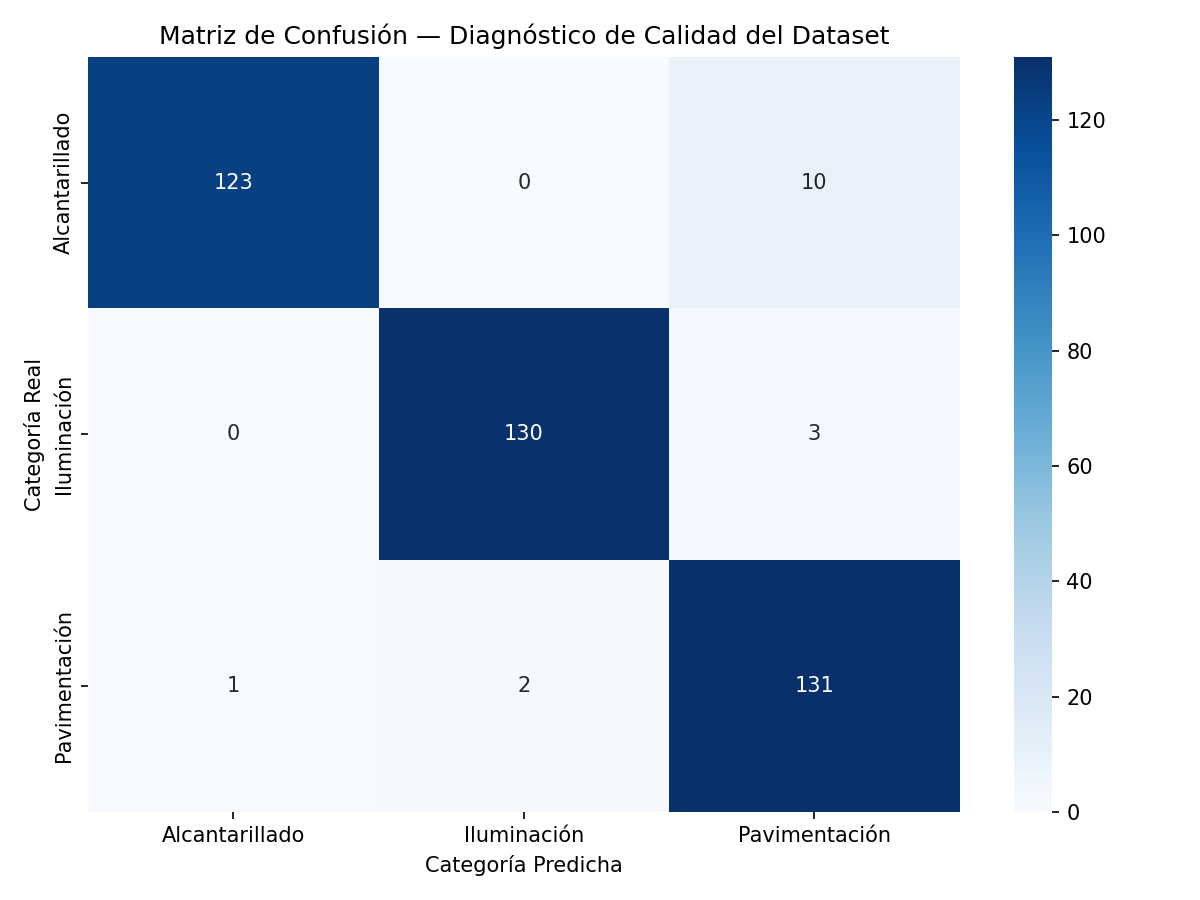
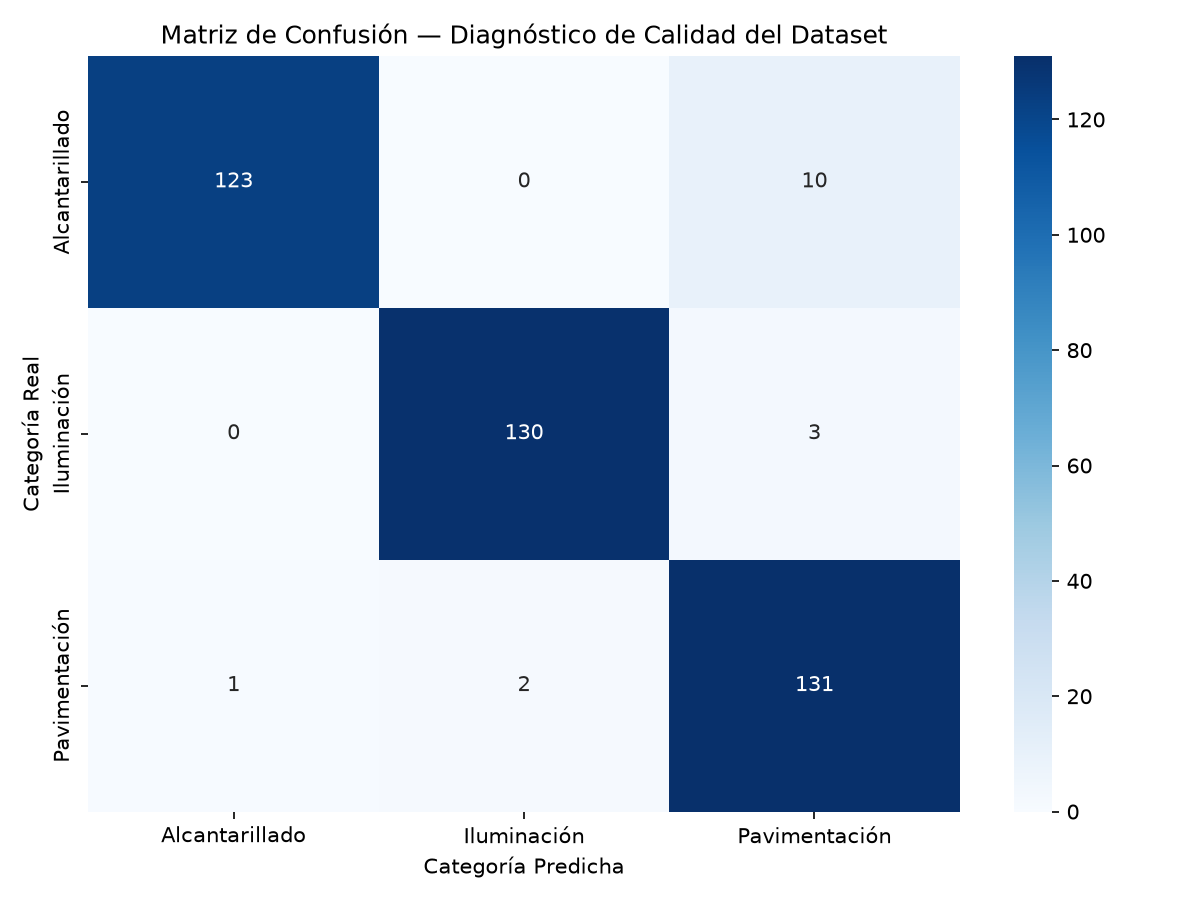
Reorganización del proyecto en carpetas por fases

diff --git a/Fase de Validación/muestreo_auditoria_manual.py b/Fase de Validación/muestreo_auditoria_manual.py
@@ -19,12 +19,14 @@
 #      finales de aprobación/rechazo para incluir en el informe.
 
 import pandas as pd
+from pathlib import Path
 
+BASE_DIR = Path(__file__).resolve().parent.parent
 
 # ---------------------
 # CONFIGURACIÓN
 # ---------------------
-archivo_entrada = "dataset_reportes_sinteticos.csv"
+archivo_entrada = BASE_DIR / "Fase de generación" / "dataset_reportes_sinteticos.csv"
 archivo_plantilla = "auditoria_manual_muestra.csv"
 archivo_completado = "auditoria_manual_muestra_completada.csv"  # se usa luego, tras completar a mano
 

diff --git a/Fase de Validación/analizar_dataset.py b/Fase de Validación/analizar_dataset.py
@@ -15,11 +15,14 @@ from sklearn.metrics import classification_report, confusion_matrix
 import seaborn as sns
 import matplotlib.pyplot as plt
 import os
+from pathlib import Path
+
+BASE_DIR = Path(__file__).resolve().parent.parent
 
 # ---------------------
 # CONFIGURACIÓN
 # ---------------------
-archivo_entrada = "dataset_reportes_sinteticos.csv"
+archivo_entrada = BASE_DIR / "Fase de generación" / "dataset_reportes_sinteticos.csv"
 total_esperado = 2000
 
 # Vocabulario que NO debería aparecer en cada categoría

diff --git a/Fase de prepocesamiento/preprocesamiento_texto.py b/Fase de prepocesamiento/preprocesamiento_texto.py
@@ -3,7 +3,8 @@ import pandas as pd
 import re
 import emoji
 import unicodedata
-
+from pathlib import Path 
+BASE_DIR = Path(__file__).resolve().parent.parent
 
 #ELIMINAR EMOJIS
 def eliminar_emojis(texto):
@@ -58,7 +59,8 @@ def limpiar_texto(texto):
 #MAIN
 def main():
 
-    archivo_entrada = "dataset_reportes_sinteticos.csv"
+    archivo_entrada = archivo_entrada = BASE_DIR / "Fase de generación" / "dataset_reportes_sinteticos.csv"
+
     archivo_salida = "dataset_reportes_preprocesado.csv"
 
     print("=" * 60)

diff --git a/Fase de Validación/Estructura_validacion.py b/Fase de Validación/Estructura_validacion.py
@@ -12,12 +12,15 @@
 #      tolerancia del 1% respecto al valor esperado por clase (N/3).
 
 import pandas as pd
+from pathlib import Path
+
+BASE_DIR = Path(__file__).resolve().parent.parent
 
 
 # ---------------------
 # CONFIGURACIÓN
 # ---------------------
-archivo_entrada = "dataset_reportes_sinteticos.csv"
+archivo_entrada = BASE_DIR / "Fase de generación" / "dataset_reportes_sinteticos.csv"
 
 columnas_obligatorias = [
     "ID_Reporte",
